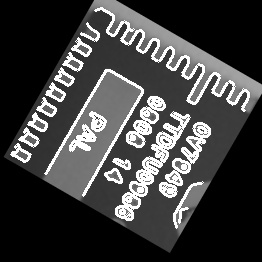
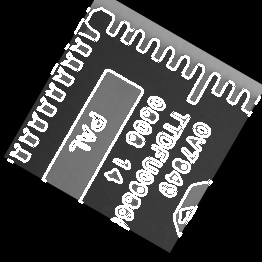
删除一些无用的代码

diff --git a/src/create_template_pc/contour_detection.cpp b/src/create_template_pc/contour_detection.cpp
@@ -496,8 +496,8 @@ static int do_create_template(TemplateStruct &tpl, const cv::Mat &src, const cv:
     cv::Mat gx;                //Matrix to store X derivative
     cv::Mat gy;                //Matrix to store Y derivative
     // set width and height
-    tpl.modelHeight = src.rows;    //Save Template height
-    tpl.modelWidth = src.cols;    //Save Template width
+    tpl.modelHeight = static_cast<UINT16>(src.rows);    //Save Template height
+    tpl.modelWidth = static_cast<UINT16>(src.cols);    //Save Template width
 
     tpl.noOfCordinates = 0;    //initialize
 
@@ -523,13 +523,7 @@ static int do_create_template(TemplateStruct &tpl, const cv::Mat &src, const cv:
 //    cv::imshow("binary", binaryContour);
 //    cv::waitKey(0);
 
-    const short *_sdx;
-    const short *_sdy;
-    double fdx, fdy;
-
     int RSum = 0, CSum = 0;
-    int curX, curY;
-    int flag = 1;
 
     for (int i = 0; i < tpl.modelHeight; i++) {
         for (int j = 0; j < tpl.modelWidth; j++) {
@@ -539,8 +533,9 @@ static int do_create_template(TemplateStruct &tpl, const cv::Mat &src, const cv:
             cv::Point p;
             p.x = j;
             p.y = i;
-            // todo 最小距离是多少还需要斟酌，因为在最小分辨率情况下看到边框还是没有去除掉，在最小分辨情况下这个dist太小了。
-            if (U8 && dist_to_lines_less_than(rect, p, (tpl.modelHeight + tpl.modelWidth) / 100.0)) {
+            // 最小距离是多少还需要斟酌，因为在最小分辨率情况下看到边框还是没有去除掉，在最小分辨情况下这个dist太小了。
+            // todo 这里由于使用了位与操作，所以不用再判断距离了
+            if (U8 /*&& dist_to_lines_less_than(rect, p, (tpl.modelHeight + tpl.modelWidth) / 100.0)*/) {
                 /* 如果梯度都为零，那么不需要计算，因为分数不会有贡献 */
                 if (fdx != 0 || fdy != 0) {
                     /* 坐标变换到外接矩形左上角为(0, 0) */
@@ -555,8 +550,8 @@ static int do_create_template(TemplateStruct &tpl, const cv::Mat &src, const cv:
                     if (fabs(vector_length - 0.) < 0.00001) {
 //                        printf(".............................................\n");
                     }
-                    tpl.edgeDerivativeX.push_back(fdx / vector_length);
-                    tpl.edgeDerivativeY.push_back(fdy / vector_length);
+                    tpl.edgeDerivativeX.push_back(static_cast<float>(fdx / vector_length));
+                    tpl.edgeDerivativeY.push_back(static_cast<float>(fdy / vector_length));
                     tpl.noOfCordinates++;
                 }
             }
@@ -690,7 +685,11 @@ static void Mat2bitmap(const cv::Mat &src, cv::Mat &dst, UINT8 bitmap[], UINT16 
     }
 }
 
-static int do_create_template(const cv::Mat &src, const cv::Mat &bitMapCleaned, Koyo_Tool_Contour_Parameter koyo_tool_contour_parameter, Koyo_Contour_Template_Runtime_Param &koyo_contour_template_runtime_param)
+/*
+ * src是截取出来的模板图片
+ * bitmapCleaned是位图，大小和src一致
+ */
+static int do_create_template(const cv::Mat &src, const cv::Mat &bitMap, Koyo_Tool_Contour_Parameter koyo_tool_contour_parameter, Koyo_Contour_Template_Runtime_Param &koyo_contour_template_runtime_param)
 {
     // 运行完成后需要将这个内容发送给嵌入式
 
@@ -701,10 +700,10 @@ static int do_create_template(const cv::Mat &src, const cv::Mat &bitMapCleaned, 
     std::vector<cv::Mat> pyramid_templates;
 #endif
     pyramid_templates.push_back(src);
-//    pyramid_templates[0] = src;
+    pyramid_bitmaps.push_back(bitMap);
 
-    // todo bitmap转图像
     UINT8 sensitity_threshold_low, sensitity_threshold_high;
+
     if (koyo_tool_contour_parameter.sensitivity == CONTOUR_ACCURACY_LOW) {
         sensitity_threshold_low = 10;
         sensitity_threshold_high = 80;
@@ -715,45 +714,20 @@ static int do_create_template(const cv::Mat &src, const cv::Mat &bitMapCleaned, 
         sensitity_threshold_low = 60;
         sensitity_threshold_high = 220;
     }
-//    cv::imshow("test", src);
-//    cv::waitKey(0);
-    // bitMap是恢复出来的擦除过的轮廓
-    cv::Mat bitMap = bitMapCleaned;
-//    bitMap.create(cv::Size(src.cols, src.rows), CV_8UC1);
-//    bitmap2Mat(src, bitMap, koyo_tool_contour_parameter.bitmaps, src.cols, src.rows);
-#ifdef _DEBUG_
-#if 1
-    for (int i = 228; i < 255; ++i) {
-        for (int j = 135; j < 190; ++j) {
-            bitMap.at<uchar>(i,j) = 0;
-        }
-    }
-//    cv::imshow("erased", bitMap);
-//    cv::waitKey(0);
-#endif
-#endif
 
-    pyramid_bitmaps.push_back(bitMap);
 
     // 建立各层金字塔, 并确定最佳金字塔层数
-    // todo 这里同时把客户端传来的bitmap也进行金字塔构建
     int optimal_pyr_level = 0;
-//    cv::imshow("template_roi", src);
-//    cv::waitKey(0);
-//    std::cout << "size of this level: cols " << pyramid_templates[0].cols << ", rows" << pyramid_templates[0].rows << std::endl;
+
     for (int i = 0; i < MAX_NUM_PYRAMID - 1; ++i) {
         cv::Mat next_level;
         cv::Mat next_level_bmap;
         cv::pyrDown(pyramid_bitmaps[i], next_level_bmap);
         cv::pyrDown(pyramid_templates[i], next_level);
-//        std::cout << "size of this level: cols " << next_level.cols << ", rows" << next_level.rows << std::endl;
         pyramid_templates.push_back(next_level);
         pyramid_bitmaps.push_back(next_level_bmap);
-//        cv::imshow(std::string("pyr") + std::string(1, i - '0') , pyramid_templates[i+1]);
-//        cvWaitKey(0);
     }
 
-    // 对每一层使用高斯滤波处理, 只对底层做高斯滤波
 #if 0
     // 做过高斯滤波就不做滤波
     for (auto iter = std::begin(pyramid_templates); iter != std::end(pyramid_templates); ++iter) {
@@ -765,8 +739,8 @@ static int do_create_template(const cv::Mat &src, const cv::Mat &bitMapCleaned, 
     // 只对最底层进行滤波
     cv::Mat after_gaus;
     cv::GaussianBlur(pyramid_templates[0], after_gaus, cv::Size(5,5),0);
-
     pyramid_templates[0] = after_gaus;
+
     // 图像的质心
 #ifndef _DEBUG_
     std::vector<cv::Point> centers;
@@ -776,17 +750,7 @@ static int do_create_template(const cv::Mat &src, const cv::Mat &bitMapCleaned, 
     for (auto &pyr : pyramid_templates) {
 #ifdef  _DEBUG_
         saveMat(pyr, (std::string("data//") + std::to_string(pyr.rows) + std::to_string(pyr.cols)).c_str());
-#if 0
-        cv::Mat gx, gy;
-
-        cv::Sobel(pyr, gx, CV_16S, 1,0,3);        //gradient in X direction
-        cv::Sobel(pyr, gy, CV_16S, 0,1,3);        //gradient in Y direction
-        // 保存各层的梯度信息
-        saveMatf(gx, std::string("data//gx" + std::to_string(gx.rows) + std::to_string(gx.cols) + ".txt").c_str());
-        saveMatf(gy, std::string("data//gy" + std::to_string(gy.rows) + std::to_string(gy.cols) + ".txt").c_str());
 #endif
-#endif
-//    for (int i = 0; i < MAX_NUM_PYRAMID; ++i) {
         cv::Mat cannyResult;
         cv::Canny(pyr, cannyResult, sensitity_threshold_high, sensitity_threshold_low);
 
@@ -805,13 +769,10 @@ static int do_create_template(const cv::Mat &src, const cv::Mat &bitMapCleaned, 
             break;
         }
         ++optimal_pyr_level;
-//        cv::imshow(std::string("pyr") + std::string(1, i - '0') , cannyResult);
-//        cvWaitKey(0);
     }
     std::cout << "optimal level: " <<  optimal_pyr_level << std::endl;
-
     tt1.stop();
-    std::cout << "first half: " << tt1.duration() << std::endl;
+//    std::cout << "first half: " << tt1.duration() << std::endl;
 
 
     // 对每层每个角度建立模板
@@ -955,14 +916,15 @@ char *create_template(const UINT8 *yuv, Koyo_Tool_Contour_Parameter koyo_tool_co
             {koyo_tool_contour_parameter.detect_rect_x2 - koyo_tool_contour_parameter.ext_rect_x, koyo_tool_contour_parameter.detect_rect_y2 - koyo_tool_contour_parameter.ext_rect_y},
             {koyo_tool_contour_parameter.detect_rect_x3 - koyo_tool_contour_parameter.ext_rect_x, koyo_tool_contour_parameter.detect_rect_y3 - koyo_tool_contour_parameter.ext_rect_y},
     };
-    cv::Mat result;
-    cutout_template_image(template_roi_ext, rect1, result);
+    cv::Mat bitmapCleaned;
+    // 从外接矩形位图中获取模板部分的位图
+    cutout_template_image(template_roi_ext, rect1, bitmapCleaned);
 //    cv::imwrite("data//result.jpg", result);
 //    std::cout << result.cols << " " << result.rows << std::endl;
 
     // 这里应该给出bitMapcleaned, 现在bitmapCleaned是轮廓位图
-    auto bitmapCleaned = result;
 
+    // 从原图中获取模板部分的位图
     cutout_template_image(template_image, rect, template_roi);
 //    std::cout << template_roi.cols << " " << template_roi.rows << std::endl;
 //    template_roi = template_image;

diff --git a/src/create_template_pc/contour_detection.h b/src/create_template_pc/contour_detection.h
@@ -5,8 +5,8 @@
 #ifndef KOYO_CONTOUR_DETECTION_H
 #define KOYO_CONTOUR_DETECTION_H
 
-#define _RELEASE_
-//#define _DEBUG_
+//#define _RELEASE_
+#define _DEBUG_
 //#define _DEBUG_LEVEL_HIGH_
 //#include <types.h>
 #include <opencv2/core/mat.hpp>
